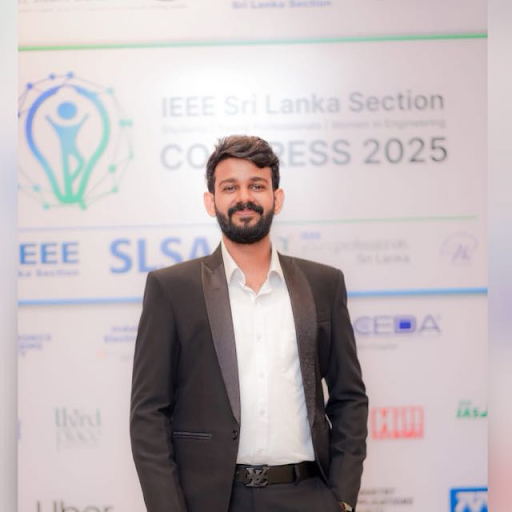
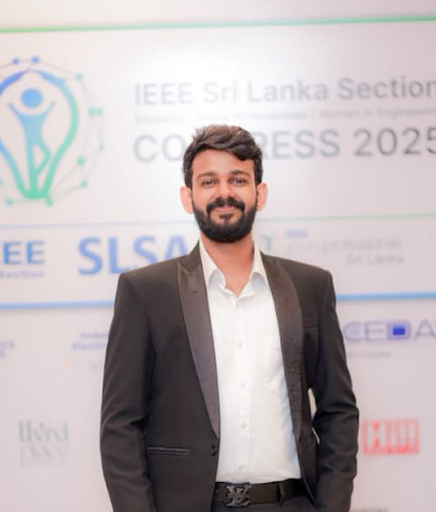
feat: add INSL zonal 2026 page, new team members, and knowledge partner

diff --git a/src/app/team/page.tsx b/src/app/team/page.tsx
@@ -16,13 +16,40 @@ const teamMembers = [
   },
   {
     name: 'Shafkhan Mohammed',
-    role: 'Program Vice Chair',
+    role: 'Vice Chair - Program',
     organization: 'IEEE Innovation Nation Sri Lanka 2026',
     phone: '(+94) 76 450 5146',
     email: 'shafkhan@ieee.org',
     image: '/shafkan.png',
     imagePosition: 'center 15%',
   },
+  {
+    name: 'Sanugi Wickramasinghe',
+    role: 'Vice Chair - Secretary Team',
+    organization: 'IEEE Innovation Nation Sri Lanka 2026',
+    phone: '(+94) 71 654 2724',
+    email: 'sanugidwickramasinghe@gmail.com',
+    image: '/sanugi.jpg',
+    imagePosition: 'center 20%',
+  },
+  {
+    name: 'Tiromi Gunarathne',
+    role: 'Vice Chair - Finance Team',
+    organization: 'IEEE Innovation Nation Sri Lanka 2026',
+    phone: '(+94) 70 373 3484',
+    email: 'gwtiromigunarathne@gmail.com',
+    image: '/tiromi.jpeg',
+    imagePosition: 'center 20%',
+  },
+  {
+    name: 'Tharusha Jayasooriya',
+    role: 'Vice Chair - PV Team',
+    organization: 'IEEE Innovation Nation Sri Lanka 2026',
+    phone: '(+94) 72 810 3079',
+    email: 'tharushamjayasooriya@gmail.com',
+    image: '/tharusha.jpg',
+    imagePosition: 'center 20%',
+  }
 ];
 
 export default function Team() {
@@ -50,10 +77,6 @@ export default function Team() {
 
       {/* Meet the Team */}
       <section className="relative w-full min-h-screen flex flex-col justify-center overflow-hidden">
-        {/* Background Split */}
-        <div className="absolute top-0 left-0 w-full h-[55%] bg-[#0c0325] z-0" />
-        <div className="absolute bottom-0 left-0 w-full h-[45%] bg-[#4b32a8] z-0" />
-
         <div className="relative z-10 max-w-7xl mx-auto px-6 md:px-16 lg:px-24 pt-40 pb-32">
           <div className="mb-16">
             <h2 className="text-3xl md:text-5xl font-semibold text-white mb-4">
@@ -64,7 +87,7 @@ export default function Team() {
             </p>
           </div>
 
-          <div className="grid md:grid-cols-2 gap-6 lg:gap-8 max-w-4xl">
+          <div className="flex flex-wrap justify-center gap-6 lg:gap-8 max-w-5xl mx-auto">
             {teamMembers.map((member, idx) => (
               <motion.div
                 key={member.name}
@@ -72,7 +95,7 @@ export default function Team() {
                 whileInView={{ opacity: 1, y: 0 }}
                 viewport={{ once: true }}
                 transition={{ duration: 0.6, delay: idx * 0.1 }}
-                className="flex flex-col rounded-2xl overflow-hidden shadow-[0_20px_40px_rgba(0,0,0,0.2)] bg-[#1a1a24]"
+                className="flex flex-col rounded-2xl overflow-hidden shadow-[0_20px_40px_rgba(0,0,0,0.2)] bg-[#1a1a24] w-full md:w-[calc(50%-1.5rem)] lg:w-[calc(33.333%-1.5rem)] max-w-sm"
               >
                 {/* Image Top Half */}
                 <div className="relative w-full aspect-[4/3] bg-[#0c0325]">

diff --git a/src/app/partners/page.tsx b/src/app/partners/page.tsx
@@ -3,8 +3,8 @@ import Link from 'next/link';
 
 export default function Partners() {
   const partnersData = [
-    { files: ['organized-by.png'], title: 'Organized By' },
     { files: ['investment-partner.png'], title: 'Investment Partner', bgWhite: true },
+    { files: ['knowledge-partner.png'], title: 'Knowledge Partner' },
     { files: ['official-digital-media-partner.png'], title: 'Official Digital Media Partner' },
     { files: ['regional-partner-1.png', 'regional-partner-2.png', 'regional-partner-3.png'], title: 'Regional Partners' }
   ];
